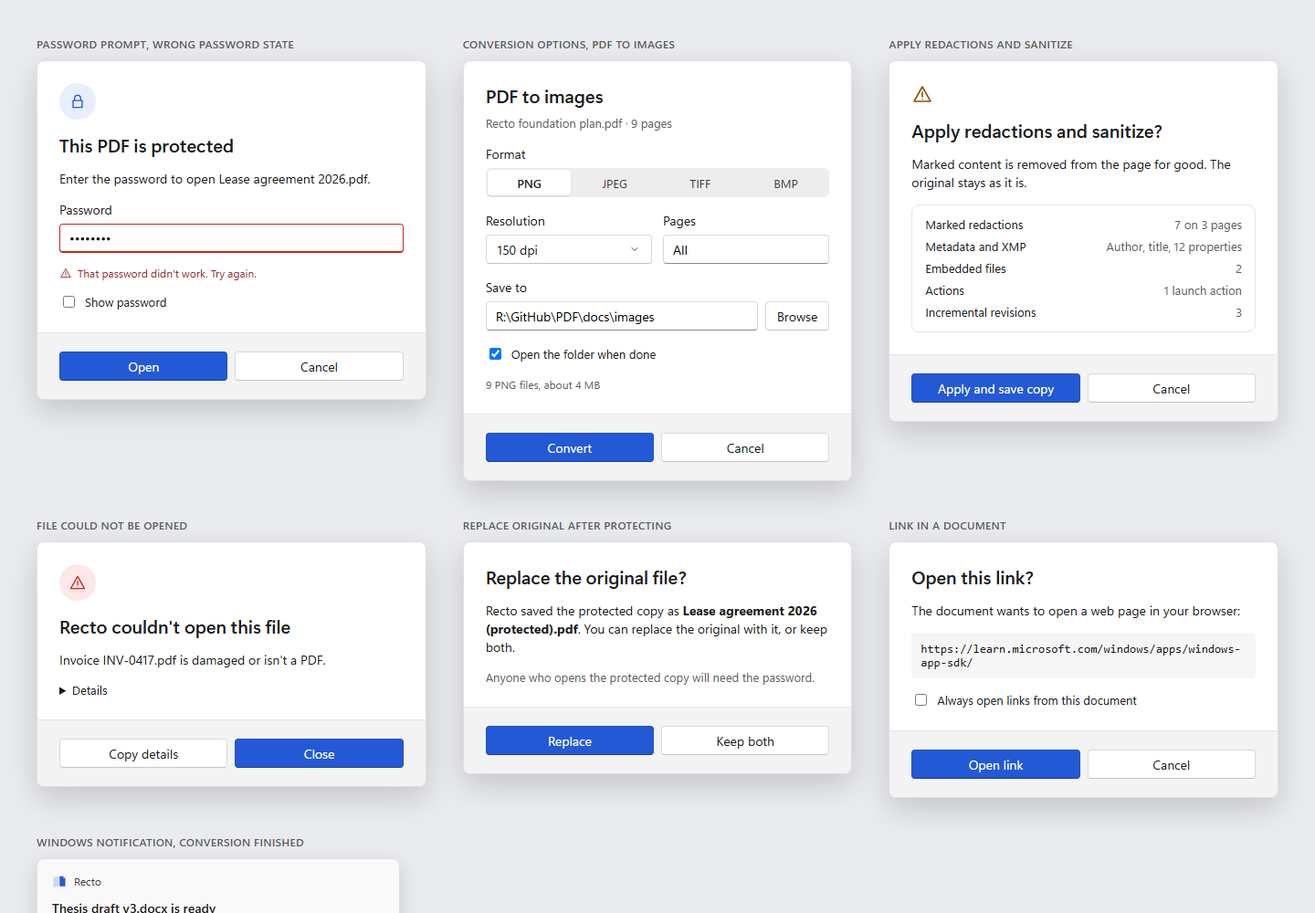
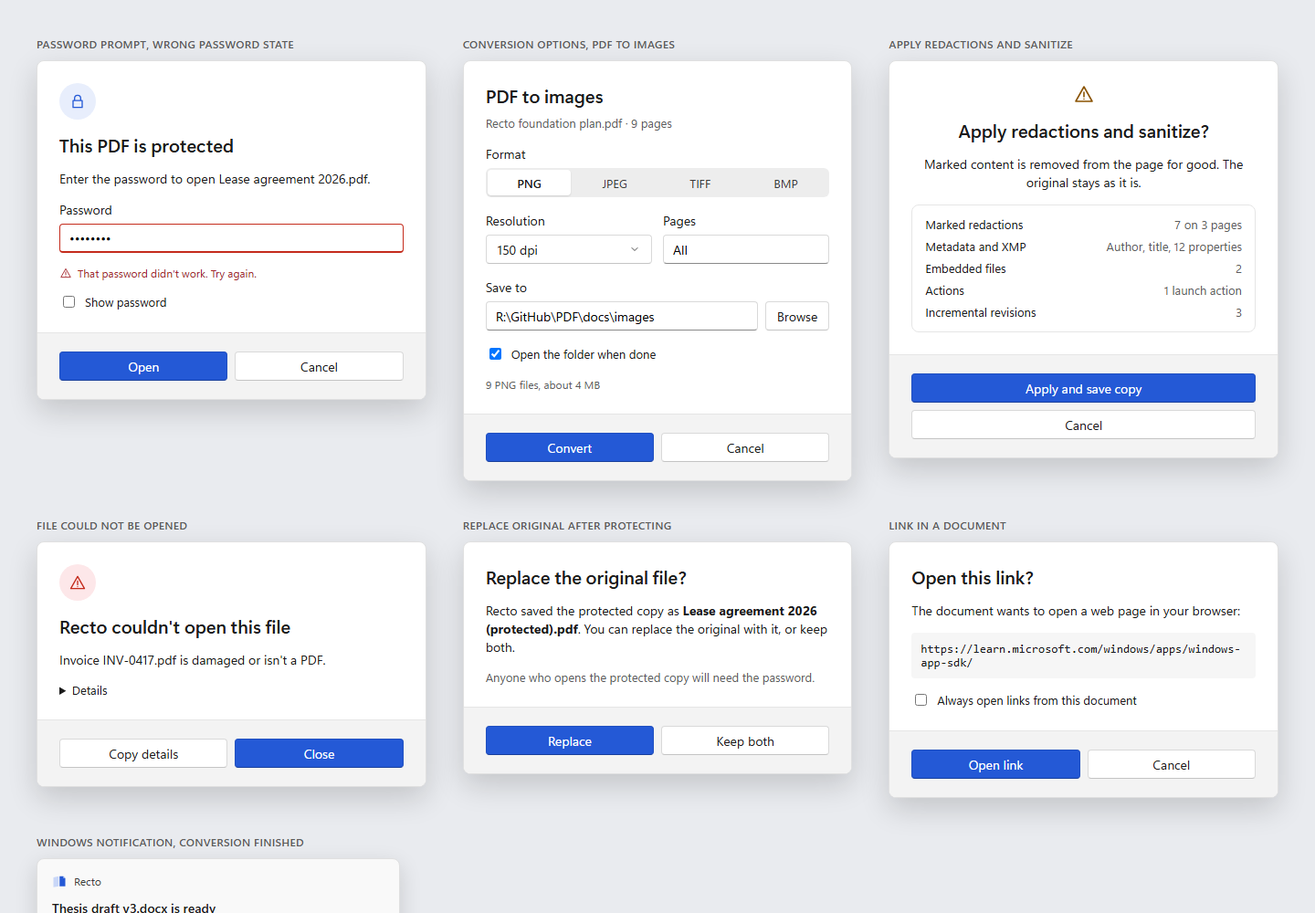
design: replacement dialogs are SPEC 9.9 alerts with SPEC 7 radii; wider Office dependency check
D06 T05 §28 review round 1.

Changed region(s): [[0.6875, 0.403, 0.9688, 0.527], [0.6875, 0.093, 0.9375, 0.217]]

diff --git a/design/mockups/html/A-Dialogs.html b/design/mockups/html/A-Dialogs.html
@@ -62,7 +62,7 @@ a{color:#2459D6}a:hover{color:#1A47B0}
 
   <div style="display:flex;flex-direction:column;gap:10px">
     <span class="lbl">APPLY REDACTIONS AND SANITIZE</span>
-    <div class="dlg" role="dialog" aria-label="Apply redactions and sanitize"><div class="bd"><svg class="ic" viewBox="0 0 24 24" style="width:24px;height:24px;color:#8A5300" aria-hidden="true"><path d="M12 4l9 16H3zM12 10v5M12 17.5v.01"></path></svg><h2 class="t">Apply redactions and sanitize?</h2><p class="p">Marked content is removed from the page for good. The original stays as it is.</p><div aria-label="What will be removed" style="display:flex;flex-direction:column;gap:6px;width:100%;box-sizing:border-box;padding:12px 14px;border-radius:8px;border:1px solid #E5E5E5;color:inherit;text-align:left;font-size:13px;line-height:18px"><span style="display:flex;justify-content:space-between;gap:12px"><span>Marked redactions</span><span class="cap" style="font-size:13px">7 on 3 pages</span></span><span style="display:flex;justify-content:space-between;gap:12px"><span>Metadata and XMP</span><span class="cap" style="font-size:13px">Author, title, 12 properties</span></span><span style="display:flex;justify-content:space-between;gap:12px"><span>Embedded files</span><span class="cap" style="font-size:13px">2</span></span><span style="display:flex;justify-content:space-between;gap:12px"><span>Actions</span><span class="cap" style="font-size:13px">1 launch action</span></span><span style="display:flex;justify-content:space-between;gap:12px"><span>Incremental revisions</span><span class="cap" style="font-size:13px">3</span></span></div></div><div class="ft"><button class="btn p2">Apply and save copy</button><button class="btn">Cancel</button></div></div>
+    <div class="dlg" role="dialog" aria-label="Apply redactions and sanitize"><div class="bd" style="align-items:center;text-align:center"><svg class="ic" viewBox="0 0 24 24" style="width:24px;height:24px;color:#8A5300" aria-hidden="true"><path d="M12 4l9 16H3zM12 10v5M12 17.5v.01"></path></svg><h2 class="t">Apply redactions and sanitize?</h2><p class="p">Marked content is removed from the page for good. The original stays as it is.</p><div aria-label="What will be removed" style="display:flex;flex-direction:column;gap:6px;width:100%;box-sizing:border-box;padding:12px 14px;border-radius:8px;border:1px solid #E5E5E5;color:inherit;text-align:left;font-size:13px;line-height:18px"><span style="display:flex;justify-content:space-between;gap:12px"><span>Marked redactions</span><span class="cap" style="font-size:13px">7 on 3 pages</span></span><span style="display:flex;justify-content:space-between;gap:12px"><span>Metadata and XMP</span><span class="cap" style="font-size:13px">Author, title, 12 properties</span></span><span style="display:flex;justify-content:space-between;gap:12px"><span>Embedded files</span><span class="cap" style="font-size:13px">2</span></span><span style="display:flex;justify-content:space-between;gap:12px"><span>Actions</span><span class="cap" style="font-size:13px">1 launch action</span></span><span style="display:flex;justify-content:space-between;gap:12px"><span>Incremental revisions</span><span class="cap" style="font-size:13px">3</span></span></div></div><div class="ft" style="display:flex;flex-direction:column;gap:8px"><button class="btn p2" style="border-radius:4px;width:100%">Apply and save copy</button><button class="btn" style="border-radius:4px;width:100%">Cancel</button></div></div>
   </div>
 
   <div style="display:flex;flex-direction:column;gap:10px">

diff --git a/design/mockups/html/B-Dialogs.html b/design/mockups/html/B-Dialogs.html
@@ -55,7 +55,7 @@ a{color:#F48A6E}a:hover{color:#F7A890}
 
   <div style="display:flex;flex-direction:column;gap:10px">
     <span class="lbl">APPLY REDACTIONS AND SANITIZE</span>
-    <div class="dlg" role="dialog" aria-label="Apply redactions and sanitize"><svg class="ic" viewBox="0 0 24 24" style="width:24px;height:24px;color:#E2C27A" aria-hidden="true"><path d="M12 4l9 16H3zM12 10v5M12 17.5v.01"></path></svg><h2 class="t">Apply redactions and sanitize?</h2><p class="p">Marked content is removed from the page for good. The original stays as it is.</p><div aria-label="What will be removed" style="display:flex;flex-direction:column;gap:6px;width:100%;box-sizing:border-box;padding:12px 14px;border-radius:8px;border:1px solid #3A3836;color:inherit;text-align:left;font-size:13px;line-height:18px"><span style="display:flex;justify-content:space-between;gap:12px"><span>Marked redactions</span><span class="cap" style="font-size:13px">7 on 3 pages</span></span><span style="display:flex;justify-content:space-between;gap:12px"><span>Metadata and XMP</span><span class="cap" style="font-size:13px">Author, title, 12 properties</span></span><span style="display:flex;justify-content:space-between;gap:12px"><span>Embedded files</span><span class="cap" style="font-size:13px">2</span></span><span style="display:flex;justify-content:space-between;gap:12px"><span>Actions</span><span class="cap" style="font-size:13px">1 launch action</span></span><span style="display:flex;justify-content:space-between;gap:12px"><span>Incremental revisions</span><span class="cap" style="font-size:13px">3</span></span></div><div class="ft"><button class="btn">Cancel</button><button class="btn p2">Apply and save copy</button></div></div>
+    <div class="dlg" role="dialog" aria-label="Apply redactions and sanitize" style="border-radius:8px;align-items:center;text-align:center"><svg class="ic" viewBox="0 0 24 24" style="width:24px;height:24px;color:#E2C27A" aria-hidden="true"><path d="M12 4l9 16H3zM12 10v5M12 17.5v.01"></path></svg><h2 class="t">Apply redactions and sanitize?</h2><p class="p">Marked content is removed from the page for good. The original stays as it is.</p><div aria-label="What will be removed" style="display:flex;flex-direction:column;gap:6px;width:100%;box-sizing:border-box;padding:12px 14px;border-radius:8px;border:1px solid #3A3836;color:inherit;text-align:left;font-size:13px;line-height:18px"><span style="display:flex;justify-content:space-between;gap:12px"><span>Marked redactions</span><span class="cap" style="font-size:13px">7 on 3 pages</span></span><span style="display:flex;justify-content:space-between;gap:12px"><span>Metadata and XMP</span><span class="cap" style="font-size:13px">Author, title, 12 properties</span></span><span style="display:flex;justify-content:space-between;gap:12px"><span>Embedded files</span><span class="cap" style="font-size:13px">2</span></span><span style="display:flex;justify-content:space-between;gap:12px"><span>Actions</span><span class="cap" style="font-size:13px">1 launch action</span></span><span style="display:flex;justify-content:space-between;gap:12px"><span>Incremental revisions</span><span class="cap" style="font-size:13px">3</span></span></div><div class="ft" style="display:flex;flex-direction:column;gap:8px;width:100%"><button class="btn p2" style="border-radius:4px;width:100%">Apply and save copy</button><button class="btn" style="border-radius:4px;width:100%">Cancel</button></div></div>
   </div>
 
   <div style="display:flex;flex-direction:column;gap:10px">

diff --git a/design/mockups/source/A-Dialogs.dc.html b/design/mockups/source/A-Dialogs.dc.html
@@ -66,7 +66,7 @@ a{color:#2459D6}a:hover{color:#1A47B0}
 
   <div style="display:flex;flex-direction:column;gap:10px">
     <span class="lbl">APPLY REDACTIONS AND SANITIZE</span>
-    <div class="dlg" role="dialog" aria-label="Apply redactions and sanitize"><div class="bd"><svg class="ic" viewBox="0 0 24 24" style="width:24px;height:24px;color:#8A5300" aria-hidden="true"><path d="{{i.warn}}"></path></svg><h2 class="t">Apply redactions and sanitize?</h2><p class="p">Marked content is removed from the page for good. The original stays as it is.</p><div aria-label="What will be removed" style="display:flex;flex-direction:column;gap:6px;width:100%;box-sizing:border-box;padding:12px 14px;border-radius:8px;border:1px solid #E5E5E5;color:inherit;text-align:left;font-size:13px;line-height:18px"><span style="display:flex;justify-content:space-between;gap:12px"><span>Marked redactions</span><span class="cap" style="font-size:13px">7 on 3 pages</span></span><span style="display:flex;justify-content:space-between;gap:12px"><span>Metadata and XMP</span><span class="cap" style="font-size:13px">Author, title, 12 properties</span></span><span style="display:flex;justify-content:space-between;gap:12px"><span>Embedded files</span><span class="cap" style="font-size:13px">2</span></span><span style="display:flex;justify-content:space-between;gap:12px"><span>Actions</span><span class="cap" style="font-size:13px">1 launch action</span></span><span style="display:flex;justify-content:space-between;gap:12px"><span>Incremental revisions</span><span class="cap" style="font-size:13px">3</span></span></div></div><div class="ft"><button class="btn p2">Apply and save copy</button><button class="btn">Cancel</button></div></div>
+    <div class="dlg" role="dialog" aria-label="Apply redactions and sanitize"><div class="bd" style="align-items:center;text-align:center"><svg class="ic" viewBox="0 0 24 24" style="width:24px;height:24px;color:#8A5300" aria-hidden="true"><path d="{{i.warn}}"></path></svg><h2 class="t">Apply redactions and sanitize?</h2><p class="p">Marked content is removed from the page for good. The original stays as it is.</p><div aria-label="What will be removed" style="display:flex;flex-direction:column;gap:6px;width:100%;box-sizing:border-box;padding:12px 14px;border-radius:8px;border:1px solid #E5E5E5;color:inherit;text-align:left;font-size:13px;line-height:18px"><span style="display:flex;justify-content:space-between;gap:12px"><span>Marked redactions</span><span class="cap" style="font-size:13px">7 on 3 pages</span></span><span style="display:flex;justify-content:space-between;gap:12px"><span>Metadata and XMP</span><span class="cap" style="font-size:13px">Author, title, 12 properties</span></span><span style="display:flex;justify-content:space-between;gap:12px"><span>Embedded files</span><span class="cap" style="font-size:13px">2</span></span><span style="display:flex;justify-content:space-between;gap:12px"><span>Actions</span><span class="cap" style="font-size:13px">1 launch action</span></span><span style="display:flex;justify-content:space-between;gap:12px"><span>Incremental revisions</span><span class="cap" style="font-size:13px">3</span></span></div></div><div class="ft" style="display:flex;flex-direction:column;gap:8px"><button class="btn p2" style="border-radius:4px;width:100%">Apply and save copy</button><button class="btn" style="border-radius:4px;width:100%">Cancel</button></div></div>
   </div>
 
   <div style="display:flex;flex-direction:column;gap:10px">

diff --git a/design/mockups/source/B-Dialogs.dc.html b/design/mockups/source/B-Dialogs.dc.html
@@ -59,7 +59,7 @@ a{color:#F48A6E}a:hover{color:#F7A890}
 
   <div style="display:flex;flex-direction:column;gap:10px">
     <span class="lbl">APPLY REDACTIONS AND SANITIZE</span>
-    <div class="dlg" role="dialog" aria-label="Apply redactions and sanitize"><svg class="ic" viewBox="0 0 24 24" style="width:24px;height:24px;color:#E2C27A" aria-hidden="true"><path d="{{i.warn}}"></path></svg><h2 class="t">Apply redactions and sanitize?</h2><p class="p">Marked content is removed from the page for good. The original stays as it is.</p><div aria-label="What will be removed" style="display:flex;flex-direction:column;gap:6px;width:100%;box-sizing:border-box;padding:12px 14px;border-radius:8px;border:1px solid #3A3836;color:inherit;text-align:left;font-size:13px;line-height:18px"><span style="display:flex;justify-content:space-between;gap:12px"><span>Marked redactions</span><span class="cap" style="font-size:13px">7 on 3 pages</span></span><span style="display:flex;justify-content:space-between;gap:12px"><span>Metadata and XMP</span><span class="cap" style="font-size:13px">Author, title, 12 properties</span></span><span style="display:flex;justify-content:space-between;gap:12px"><span>Embedded files</span><span class="cap" style="font-size:13px">2</span></span><span style="display:flex;justify-content:space-between;gap:12px"><span>Actions</span><span class="cap" style="font-size:13px">1 launch action</span></span><span style="display:flex;justify-content:space-between;gap:12px"><span>Incremental revisions</span><span class="cap" style="font-size:13px">3</span></span></div><div class="ft"><button class="btn">Cancel</button><button class="btn p2">Apply and save copy</button></div></div>
+    <div class="dlg" role="dialog" aria-label="Apply redactions and sanitize" style="border-radius:8px;align-items:center;text-align:center"><svg class="ic" viewBox="0 0 24 24" style="width:24px;height:24px;color:#E2C27A" aria-hidden="true"><path d="{{i.warn}}"></path></svg><h2 class="t">Apply redactions and sanitize?</h2><p class="p">Marked content is removed from the page for good. The original stays as it is.</p><div aria-label="What will be removed" style="display:flex;flex-direction:column;gap:6px;width:100%;box-sizing:border-box;padding:12px 14px;border-radius:8px;border:1px solid #3A3836;color:inherit;text-align:left;font-size:13px;line-height:18px"><span style="display:flex;justify-content:space-between;gap:12px"><span>Marked redactions</span><span class="cap" style="font-size:13px">7 on 3 pages</span></span><span style="display:flex;justify-content:space-between;gap:12px"><span>Metadata and XMP</span><span class="cap" style="font-size:13px">Author, title, 12 properties</span></span><span style="display:flex;justify-content:space-between;gap:12px"><span>Embedded files</span><span class="cap" style="font-size:13px">2</span></span><span style="display:flex;justify-content:space-between;gap:12px"><span>Actions</span><span class="cap" style="font-size:13px">1 launch action</span></span><span style="display:flex;justify-content:space-between;gap:12px"><span>Incremental revisions</span><span class="cap" style="font-size:13px">3</span></span></div><div class="ft" style="display:flex;flex-direction:column;gap:8px;width:100%"><button class="btn p2" style="border-radius:4px;width:100%">Apply and save copy</button><button class="btn" style="border-radius:4px;width:100%">Cancel</button></div></div>
   </div>
 
   <div style="display:flex;flex-direction:column;gap:10px">

diff --git a/design/mockups/html/C-Dialogs.html b/design/mockups/html/C-Dialogs.html
@@ -75,7 +75,7 @@ kbd{font-family:inherit;font-size:11px;padding:2px 6px;border-radius:5px;backgro
     </div>
     <div style="display:flex;flex-direction:column;gap:10px">
       <span class="lbl">APPLY REDACTIONS AND SANITIZE</span>
-      <div class="dlg ctr" role="dialog" aria-label="Apply redactions and sanitize"><svg class="ic" viewBox="0 0 24 24" style="width:24px;height:24px;color:#8A5300" aria-hidden="true"><path d="M12 4l9 16H3zM12 10v5M12 17.5v.01"></path></svg><h2 class="t">Apply redactions and sanitize?</h2><p class="p">Marked content is removed from the page for good. The original stays as it is.</p><div aria-label="What will be removed" style="display:flex;flex-direction:column;gap:6px;width:100%;box-sizing:border-box;padding:12px 14px;border-radius:8px;border:1px solid #E2E0EC;color:inherit;text-align:left;font-size:13px;line-height:18px"><span style="display:flex;justify-content:space-between;gap:12px"><span>Marked redactions</span><span class="cap" style="font-size:13px">7 on 3 pages</span></span><span style="display:flex;justify-content:space-between;gap:12px"><span>Metadata and XMP</span><span class="cap" style="font-size:13px">Author, title, 12 properties</span></span><span style="display:flex;justify-content:space-between;gap:12px"><span>Embedded files</span><span class="cap" style="font-size:13px">2</span></span><span style="display:flex;justify-content:space-between;gap:12px"><span>Actions</span><span class="cap" style="font-size:13px">1 launch action</span></span><span style="display:flex;justify-content:space-between;gap:12px"><span>Incremental revisions</span><span class="cap" style="font-size:13px">3</span></span></div><div class="stk"><button class="btn p2">Apply and save copy</button><button class="btn gh">Cancel</button></div></div>
+      <div class="dlg ctr" role="dialog" aria-label="Apply redactions and sanitize" style="border-radius:8px"><svg class="ic" viewBox="0 0 24 24" style="width:24px;height:24px;color:#8A5300" aria-hidden="true"><path d="M12 4l9 16H3zM12 10v5M12 17.5v.01"></path></svg><h2 class="t">Apply redactions and sanitize?</h2><p class="p">Marked content is removed from the page for good. The original stays as it is.</p><div aria-label="What will be removed" style="display:flex;flex-direction:column;gap:6px;width:100%;box-sizing:border-box;padding:12px 14px;border-radius:8px;border:1px solid #E2E0EC;color:inherit;text-align:left;font-size:13px;line-height:18px"><span style="display:flex;justify-content:space-between;gap:12px"><span>Marked redactions</span><span class="cap" style="font-size:13px">7 on 3 pages</span></span><span style="display:flex;justify-content:space-between;gap:12px"><span>Metadata and XMP</span><span class="cap" style="font-size:13px">Author, title, 12 properties</span></span><span style="display:flex;justify-content:space-between;gap:12px"><span>Embedded files</span><span class="cap" style="font-size:13px">2</span></span><span style="display:flex;justify-content:space-between;gap:12px"><span>Actions</span><span class="cap" style="font-size:13px">1 launch action</span></span><span style="display:flex;justify-content:space-between;gap:12px"><span>Incremental revisions</span><span class="cap" style="font-size:13px">3</span></span></div><div class="stk"><button class="btn p2" style="border-radius:4px">Apply and save copy</button><button class="btn gh" style="border-radius:4px">Cancel</button></div></div>
     </div>
   </div>
 

diff --git a/design/mockups/source/C-Dialogs.dc.html b/design/mockups/source/C-Dialogs.dc.html
@@ -79,7 +79,7 @@ kbd{font-family:inherit;font-size:11px;padding:2px 6px;border-radius:5px;backgro
     </div>
     <div style="display:flex;flex-direction:column;gap:10px">
       <span class="lbl">APPLY REDACTIONS AND SANITIZE</span>
-      <div class="dlg ctr" role="dialog" aria-label="Apply redactions and sanitize"><svg class="ic" viewBox="0 0 24 24" style="width:24px;height:24px;color:#8A5300" aria-hidden="true"><path d="{{i.warn}}"></path></svg><h2 class="t">Apply redactions and sanitize?</h2><p class="p">Marked content is removed from the page for good. The original stays as it is.</p><div aria-label="What will be removed" style="display:flex;flex-direction:column;gap:6px;width:100%;box-sizing:border-box;padding:12px 14px;border-radius:8px;border:1px solid #E2E0EC;color:inherit;text-align:left;font-size:13px;line-height:18px"><span style="display:flex;justify-content:space-between;gap:12px"><span>Marked redactions</span><span class="cap" style="font-size:13px">7 on 3 pages</span></span><span style="display:flex;justify-content:space-between;gap:12px"><span>Metadata and XMP</span><span class="cap" style="font-size:13px">Author, title, 12 properties</span></span><span style="display:flex;justify-content:space-between;gap:12px"><span>Embedded files</span><span class="cap" style="font-size:13px">2</span></span><span style="display:flex;justify-content:space-between;gap:12px"><span>Actions</span><span class="cap" style="font-size:13px">1 launch action</span></span><span style="display:flex;justify-content:space-between;gap:12px"><span>Incremental revisions</span><span class="cap" style="font-size:13px">3</span></span></div><div class="stk"><button class="btn p2">Apply and save copy</button><button class="btn gh">Cancel</button></div></div>
+      <div class="dlg ctr" role="dialog" aria-label="Apply redactions and sanitize" style="border-radius:8px"><svg class="ic" viewBox="0 0 24 24" style="width:24px;height:24px;color:#8A5300" aria-hidden="true"><path d="{{i.warn}}"></path></svg><h2 class="t">Apply redactions and sanitize?</h2><p class="p">Marked content is removed from the page for good. The original stays as it is.</p><div aria-label="What will be removed" style="display:flex;flex-direction:column;gap:6px;width:100%;box-sizing:border-box;padding:12px 14px;border-radius:8px;border:1px solid #E2E0EC;color:inherit;text-align:left;font-size:13px;line-height:18px"><span style="display:flex;justify-content:space-between;gap:12px"><span>Marked redactions</span><span class="cap" style="font-size:13px">7 on 3 pages</span></span><span style="display:flex;justify-content:space-between;gap:12px"><span>Metadata and XMP</span><span class="cap" style="font-size:13px">Author, title, 12 properties</span></span><span style="display:flex;justify-content:space-between;gap:12px"><span>Embedded files</span><span class="cap" style="font-size:13px">2</span></span><span style="display:flex;justify-content:space-between;gap:12px"><span>Actions</span><span class="cap" style="font-size:13px">1 launch action</span></span><span style="display:flex;justify-content:space-between;gap:12px"><span>Incremental revisions</span><span class="cap" style="font-size:13px">3</span></span></div><div class="stk"><button class="btn p2" style="border-radius:4px">Apply and save copy</button><button class="btn gh" style="border-radius:4px">Cancel</button></div></div>
     </div>
   </div>
 

diff --git a/design/mockups/html/A-Settings.html b/design/mockups/html/A-Settings.html
@@ -70,7 +70,7 @@ a{color:#2459D6}a:hover{color:#1A47B0}
         </div>
         <div style="display:flex;flex-direction:column;gap:4px">
           <h2 class="sh">Converting</h2>
-          <div class="sc"><svg class="ic" viewBox="0 0 24 24" aria-hidden="true"><path d="M4 8h16v11H4zM9 8V5h6v3M4 13h16"></path></svg><span class="t"><b>Default Office to PDF page setup</b><span class="cap">Used when converting Word, Excel and PowerPoint files</span></span><button class="btn dd">Match original document<svg class="ic" viewBox="0 0 24 24" style="width:12px" aria-hidden="true"><path d="M6 9l6 6 6-6"></path></svg></button></div>
+          <div class="sc" style="border-radius:8px"><svg class="ic" viewBox="0 0 24 24" aria-hidden="true"><path d="M4 8h16v11H4zM9 8V5h6v3M4 13h16"></path></svg><span class="t"><b>Default Office to PDF page setup</b><span class="cap">Used when converting Word, Excel and PowerPoint files</span></span><button class="btn dd">Match original document<svg class="ic" viewBox="0 0 24 24" style="width:12px" aria-hidden="true"><path d="M6 9l6 6 6-6"></path></svg></button></div>
           <div class="sc"><svg class="ic" viewBox="0 0 24 24" aria-hidden="true"><path d="M3 7a2 2 0 0 1 2-2h4l2 2h8a2 2 0 0 1 2 2v8a2 2 0 0 1-2 2H5a2 2 0 0 1-2-2z"></path></svg><span class="t"><b>Save converted files to</b><span class="cap">Same folder as the original</span></span><button class="btn">Change folder</button></div>
           <div class="sc"><svg class="ic" viewBox="0 0 24 24" aria-hidden="true"><path d="M4 5h16v14H4zM4 16l5-5 4 4 3-3 4 4M15 9h.01"></path></svg><span class="t"><b>Default image resolution</b><span class="cap">For PDF to images</span></span><button class="btn dd">150 dpi<svg class="ic" viewBox="0 0 24 24" style="width:12px" aria-hidden="true"><path d="M6 9l6 6 6-6"></path></svg></button></div>
           <h2 class="sh" style="margin-top:14px">Performance</h2>

diff --git a/design/mockups/source/A-Settings.dc.html b/design/mockups/source/A-Settings.dc.html
@@ -74,7 +74,7 @@ a{color:#2459D6}a:hover{color:#1A47B0}
         </div>
         <div style="display:flex;flex-direction:column;gap:4px">
           <h2 class="sh">Converting</h2>
-          <div class="sc"><svg class="ic" viewBox="0 0 24 24" aria-hidden="true"><path d="{{i.office}}"></path></svg><span class="t"><b>Default Office to PDF page setup</b><span class="cap">Used when converting Word, Excel and PowerPoint files</span></span><button class="btn dd">Match original document<svg class="ic" viewBox="0 0 24 24" style="width:12px" aria-hidden="true"><path d="{{i.cd}}"></path></svg></button></div>
+          <div class="sc" style="border-radius:8px"><svg class="ic" viewBox="0 0 24 24" aria-hidden="true"><path d="{{i.office}}"></path></svg><span class="t"><b>Default Office to PDF page setup</b><span class="cap">Used when converting Word, Excel and PowerPoint files</span></span><button class="btn dd">Match original document<svg class="ic" viewBox="0 0 24 24" style="width:12px" aria-hidden="true"><path d="{{i.cd}}"></path></svg></button></div>
           <div class="sc"><svg class="ic" viewBox="0 0 24 24" aria-hidden="true"><path d="{{i.folder}}"></path></svg><span class="t"><b>Save converted files to</b><span class="cap">Same folder as the original</span></span><button class="btn">Change folder</button></div>
           <div class="sc"><svg class="ic" viewBox="0 0 24 24" aria-hidden="true"><path d="{{i.img}}"></path></svg><span class="t"><b>Default image resolution</b><span class="cap">For PDF to images</span></span><button class="btn dd">150 dpi<svg class="ic" viewBox="0 0 24 24" style="width:12px" aria-hidden="true"><path d="{{i.cd}}"></path></svg></button></div>
           <h2 class="sh" style="margin-top:14px">Performance</h2>

diff --git a/design/mockups/html/C-Settings.html b/design/mockups/html/C-Settings.html
@@ -61,7 +61,7 @@ a{color:#4A3FD0}a:hover{color:#3529A8}
       </div>
       <div class="gh">CONVERTING</div>
       <div class="grp">
-        <div class="r"><span class="t"><b>Default Office to PDF page setup</b><span class="cap">Used when converting Word, Excel and PowerPoint files</span></span><button class="dd">Match original document<svg class="ic" viewBox="0 0 24 24" style="width:12px" aria-hidden="true"><path d="M6 9l6 6 6-6"></path></svg></button></div>
+        <div class="r"><span class="t"><b>Default Office to PDF page setup</b><span class="cap">Used when converting Word, Excel and PowerPoint files</span></span><button class="dd" style="border-radius:4px">Match original document<svg class="ic" viewBox="0 0 24 24" style="width:12px" aria-hidden="true"><path d="M6 9l6 6 6-6"></path></svg></button></div>
         <div class="r"><span class="t"><b>Save converted files</b></span><button class="dd">Next to the original<svg class="ic" viewBox="0 0 24 24" style="width:12px" aria-hidden="true"><path d="M6 9l6 6 6-6"></path></svg></button></div>
       </div>
       <div class="gh">PERFORMANCE AND PRIVACY</div>

diff --git a/design/mockups/source/C-Settings.dc.html b/design/mockups/source/C-Settings.dc.html
@@ -65,7 +65,7 @@ a{color:#4A3FD0}a:hover{color:#3529A8}
       </div>
       <div class="gh">CONVERTING</div>
       <div class="grp">
-        <div class="r"><span class="t"><b>Default Office to PDF page setup</b><span class="cap">Used when converting Word, Excel and PowerPoint files</span></span><button class="dd">Match original document<svg class="ic" viewBox="0 0 24 24" style="width:12px" aria-hidden="true"><path d="{{i.cd}}"></path></svg></button></div>
+        <div class="r"><span class="t"><b>Default Office to PDF page setup</b><span class="cap">Used when converting Word, Excel and PowerPoint files</span></span><button class="dd" style="border-radius:4px">Match original document<svg class="ic" viewBox="0 0 24 24" style="width:12px" aria-hidden="true"><path d="{{i.cd}}"></path></svg></button></div>
         <div class="r"><span class="t"><b>Save converted files</b></span><button class="dd">Next to the original<svg class="ic" viewBox="0 0 24 24" style="width:12px" aria-hidden="true"><path d="{{i.cd}}"></path></svg></button></div>
       </div>
       <div class="gh">PERFORMANCE AND PRIVACY</div>

diff --git a/tests/scripts/test_engine_dependency_policy.py b/tests/scripts/test_engine_dependency_policy.py
@@ -43,6 +43,14 @@ def tracked(*pathspecs):
     return [name for name in out.split("\0") if name]
 
 
+# Office or LibreOffice named as something Recto needs to convert: the suites by name, or Office, Word, Excel or
+# PowerPoint after a verb of need or a route ("Install Office", "requires Microsoft Office", "through PowerPoint").
+OFFICE_DEPENDENCY = re.compile(
+    r"libreoffice|office com|microsoft (word|excel|powerpoint|office|365)"
+    r"|\b(install|installs|installed|installing|need|needs|needed|require|requires|required|requiring|through|via|using)"
+    r" (the )?(microsoft )?(office|word|excel|powerpoint)\b", re.IGNORECASE)
+
+
 class EngineDependencyPolicyTest(unittest.TestCase):
     def test_no_submodule_or_vendored_engine(self):
         index = subprocess.run(["git", "-C", str(REPO), "ls-files", "--stage"], capture_output=True, text=True,
@@ -94,8 +102,9 @@ class EngineDependencyPolicyTest(unittest.TestCase):
                 self.assertIsNone(re.search(r"\bfz_", text, re.IGNORECASE))  # MuPDF's API prefix, whatever follows it
                 # Recto converts Office files with its own engines (D5, D7, D10): no board may present Office or
                 # LibreOffice as a converter Recto needs (D06 T05 §28).
-                self.assertIsNone(re.search(r"libreoffice|office com|microsoft (word|excel|powerpoint|office)"
-                                            r"|through (word|excel|powerpoint|office)", text, re.IGNORECASE))
+                # Matched on the visible text (tags removed, white space collapsed), so markup cannot split a phrase.
+                visible = " ".join(re.sub(r"<[^>]+>", " ", text).split())
+                self.assertIsNone(OFFICE_DEPENDENCY.search(visible))
 
     @unittest.skipUnless(sys.platform == "win32", "the C++ build and MSBuild are Windows-only (foundation plan D15)")
     def test_every_module_compiles_as_cpp20_with_warnings_as_errors(self):

diff --git a/docs/reviews/06-quality/D06-T05-s28.md b/docs/reviews/06-quality/D06-T05-s28.md
@@ -22,3 +22,43 @@ Each new dialog follows SPEC 9.9: a warning glyph in the warning colour with no 
 - `git grep -n -i -E "libreoffice|office com|microsoft (word|excel|powerpoint|office)|through (word|excel|powerpoint|office)" -- design/mockups` -> no output.
 - `node design/tools/render-mockups.mjs --only A-Dialogs,B-Dialogs,C-Dialogs,A-Settings,C-Settings` -> rendered all five, no `{{` template holes left in their HTML; `A-Dialogs.png` inspected.
 - `python -m unittest tests.scripts.test_engine_dependency_policy` -> `Ran 4 tests`, `OK`; appending a "Get LibreOffice" link to a rendered board makes the design check fail.
+
+## Round 1: astra (`gpt-6-astra` via `codex`)
+
+- Writer: claude
+- Run: 2026-10-22T03:40:38Z
+- Effort: medium
+- Lines: 22
+- Digest: f892109438be2722
+
+### adversarial: needs-attention
+
+1. **P1** `tests/scripts/test_engine_dependency_policy.py:97`: The check accepts explicit Office dependencies. Using `unittest.mock.patch` to supply board text in memory, both `<p>Install Office to convert Word files to PDF.</p>` and `<p>Conversion requires Microsoft <b>Office</b>.</p>` pass the actual test. The `Get LibreOffice` control fails. Match dependency wording and normalized visible text, not only literal product-name sequences.
+
+### consistency: needs-attention
+
+2. **P1** `design/mockups/source/B-Dialogs.dc.html:62`, `design/mockups/source/C-Dialogs.dc.html:82`: The replacement dialogs inherit prohibited radii. B uses 14px dialogs and 6px buttons; C uses 20px dialogs and 12px buttons. The replacement settings also inherit 6px cards in `A-Settings.dc.html:29`, and 16px groups with 10px dropdowns in `C-Settings.dc.html:25,34`. Reproduce by inspecting these selectors or the saved PNGs. SPEC §7 requires 8px overlays/groups and 4px controls.
+
+### integration: approve
+
+### source-defect: needs-attention
+
+3. **P1** `design/mockups/source/A-Dialogs.dc.html:69`, `design/mockups/source/B-Dialogs.dc.html:62`: The replacement confirmations use left-aligned alerts and horizontal buttons. SPEC §9.9 requires centered alert content and stacked full-width buttons, primary on top. Reproduce by opening either rendered board’s redaction confirmation. A additionally puts the primary action before Cancel horizontally, contrary to the alternative form ordering.
+
+### design: approve
+
+### record: needs-attention
+
+4. **P3** `docs/reviews/06-quality/D06-T05-s28.md:18`: “Each new dialog follows SPEC 9.9” overstates compliance. Reproduce by comparing that claim with the A/B alert layouts and B/C radii identified above. Correct the surfaces before retaining this claim.
+
+HIGHEST: P1
+OVERALL: needs-attention
+
+## Fixes after round 1
+
+`python -m unittest tests.scripts.test_engine_dependency_policy` -> `Ran 4 tests`, `OK`; the check now matches "Install Office to convert Word files to PDF." and "Conversion requires Microsoft <b>Office</b>." and still accepts "Office to PDF is built in." and "Default Office to PDF page setup". Re-rendered A-Dialogs, B-Dialogs, C-Dialogs, A-Settings and C-Settings; `B-Dialogs.png` inspected.
+
+- Finding 1 (P1): the check reads the visible text (tags removed, white space collapsed) and refuses `OFFICE_DEPENDENCY`: the suites by name (LibreOffice, Office COM, Microsoft Word, Excel, PowerPoint, Office, 365) or Office, Word, Excel or PowerPoint after a verb of need or a route (install, need, require, through, via, using).
+- Finding 3 (P1): the A and B replacements are now SPEC 9.9 alerts, as C's was: centred glyph, title and text, and stacked full-width buttons with "Apply and save copy" on top of "Cancel".
+- Finding 2 (P1): the surfaces this section replaced carry SPEC 7's radii: 8 px for the dialogs (B and C were 14 and 20) and A's settings row card, 4 px for their buttons and C's page-setup dropdown (B, C and C-Settings were 6, 12 and 10). The rest of the A, B and C exploration boards keep their own earlier styling (radii, tinted icon tiles), which predates SPEC 6 and 7 and is outside this section; SPEC wins over those boards as AGENTS.md states.
+- Finding 4 (P3): the claim that each new dialog follows SPEC 9.9 now holds, with the layout and radii above.
